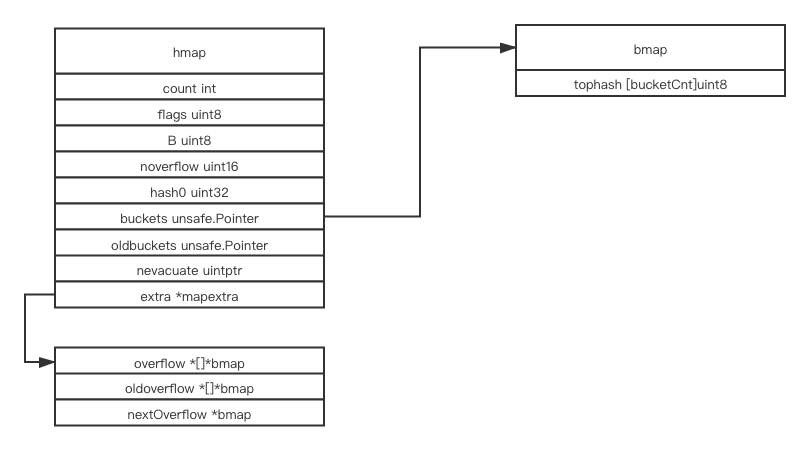
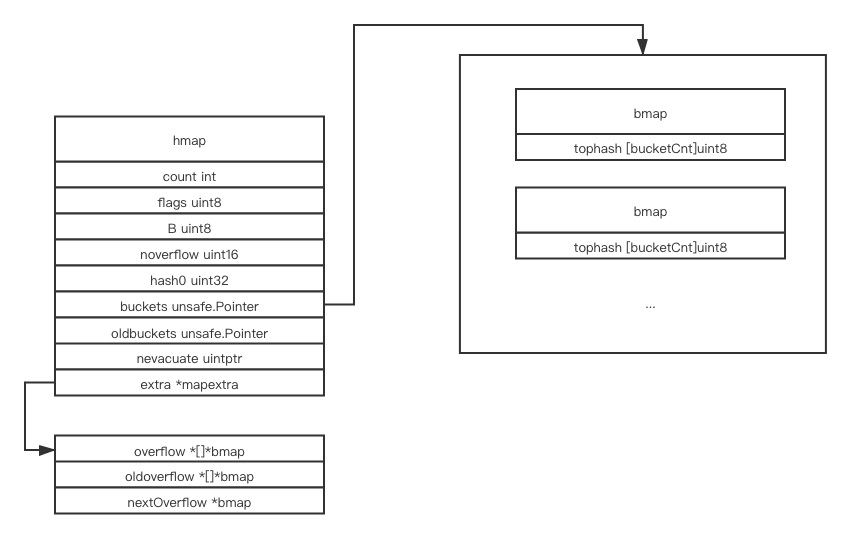
map introduce

Changed region(s): [[0.0, 0.0311, 0.9877, 0.9644], [0.5864, 0.3422, 0.9259, 0.4978]]

diff --git a/objects/map/map.md b/objects/map/map.md
@@ -1,14 +1,19 @@
-# map ![image title](http://www.zpoint.xyz:8080/count/tag.svg?url=github%2Fgo-Internals%2Fmap)
+# map
 
-# contents
+## contents
 
 [related file](#related-file)
 
 [memory layout](#memory-layout)
 
-[insert](#insert)
+[introduce](#introduce)
 
-# related file
+[buckets](#buckets)
+
+* [tophash](#tophash)
+* [key and element](#key-and-element)
+
+## related file
 
 * src/runtime/map.go
 * src/runtime/map_fast32.go
@@ -16,7 +21,7 @@
 * src/runtime/map_faststr.go
 * src/runtime/type.go
 
-# memory layout
+## memory layout
 
 There exists various different version of map implementation
 
@@ -51,7 +56,7 @@ This is the layout of `hmap`
 
 ![hmap](./hmap.png)
 
-# insert
+## introduce
 
 ```go
 func main() {
@@ -59,4 +64,52 @@ func main() {
 	m1[300] = "aaa"
 }
 ```
+
+`B` stores log2 of buckets num, you can get the total bucket count by `1 << B`, The initial value of `B` is 0, means there's only 1 bucket
+
+When you access an element, the hash function attached to the `maptype` will be called, the hash result ` & bucketMask` will locate a bucket
+
+```go
+hash := t.hasher(noescape(unsafe.Pointer(&key)), uintptr(h.hash0))
+bucket := hash & bucketMask(h.B)
+```
+
+![assign](./assign.png)
+
+This is our example
+
+![assign1](./assign1.png)
+
+We can find that `count` stores how many elements currently stored inside the `map` so that `len(m1)` can be calculated in `O(1)` 
+
+`flags` is used for indicating the state of current map
+
+```go
+iterator     = 1 // there may be an iterator using buckets
+oldIterator  = 2 // there may be an iterator using oldbuckets
+hashWriting  = 4 // a goroutine is writing to the map
+sameSizeGrow = 8 // the current map growth is to a new map of the same size
+```
+
+`B` is bucket count in log2 format
+
+`noverflow # TO DO`
+
+`buckets` is a pointer which points to the head of current buckets
+
+`nevacuate # TO DO`
+
+`extra # TO DO`
+
+## buckets
+
+buckets is the actual memory container that stores the **key** and **value**, the **hash** function take the **key** and a **hash seed** and locate a bucket, and the **hash** part is done
+
+The next step is linear search, traverse the bucket and find an entry which is currently avaliable, take it
+
+If the current bucket is full, the linear search algorithm will cross the bucket boundary to the next bucket, and repeat the searching process
+
+### tophash
+
+### key and element
 
